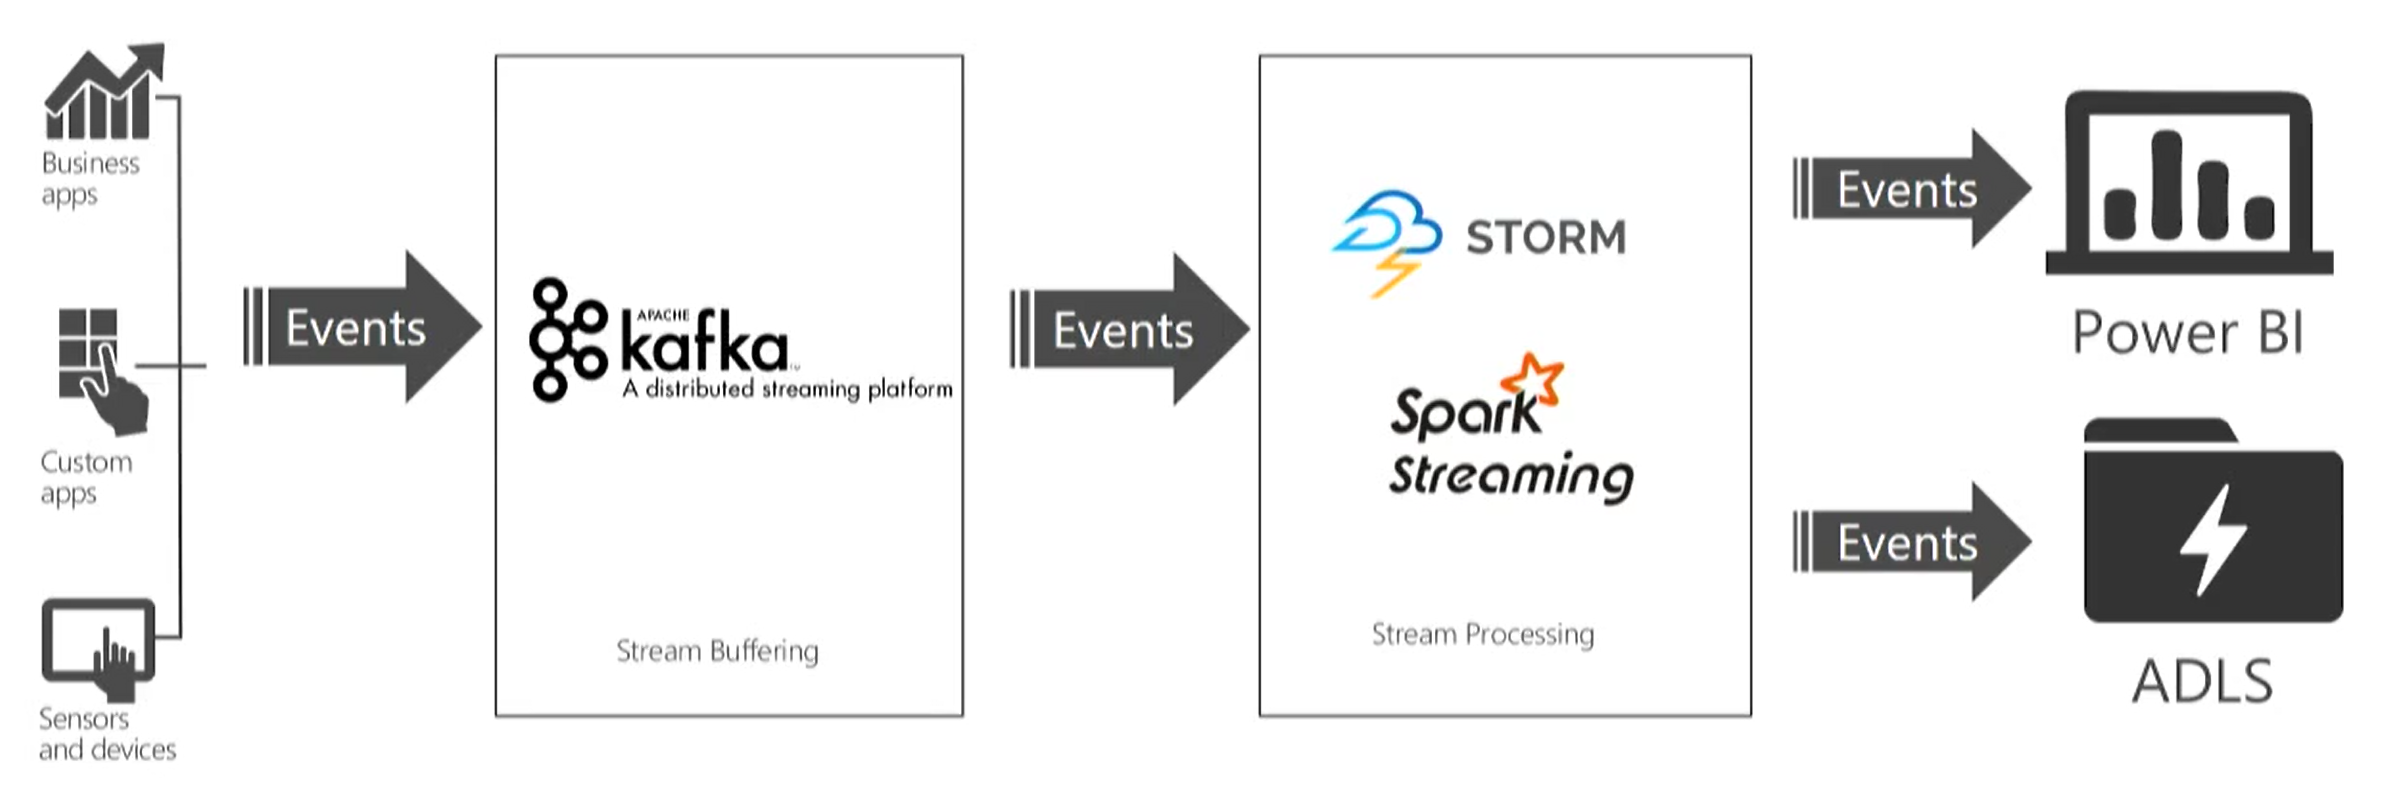
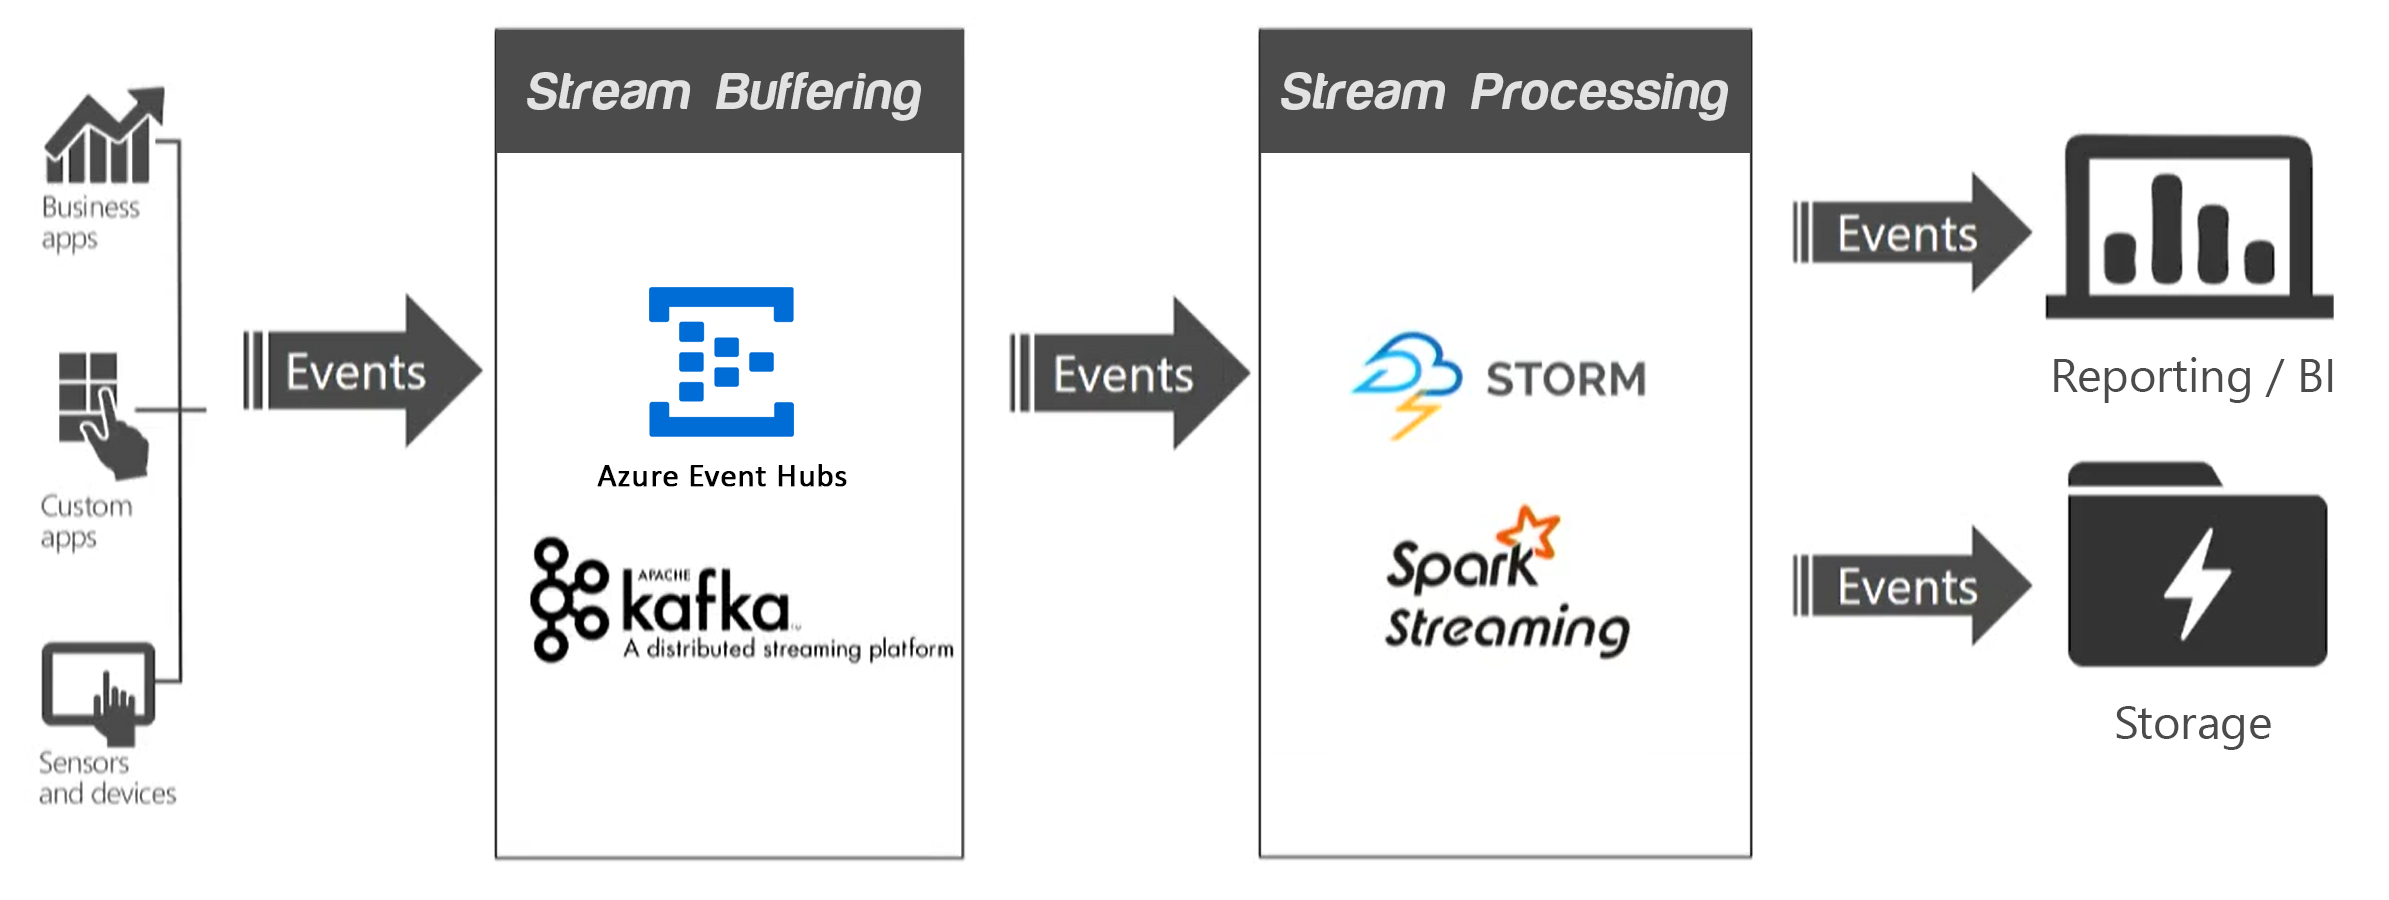
Streamlined Streaming at Scale

diff --git a/hdinsight-streaming-at-scale-overview.md b/hdinsight-streaming-at-scale-overview.md
@@ -10,78 +10,44 @@ keywords: apache storm,storm cluster,kafka,streaming
 ---
 # Streaming at Scale
 
-Many of today's Big Data solutions must act on data in motion at any given point in time. In other words, realtime streaming data. In most cases, this data is most valuable at its time of arrival, such as stock market data, anomaly data used for fraud detection, social networking information that detects trending topics, etc. These applications require transparently scaling their computation models to large clusters, ensuring that valuable information isn't lost when huge spikes of streaming data come rushing in. Being able to quickly scale your solution by adding nodes on demand can be the difference between missing out on incoming information and making a key decision.
+Many of today's Big Data solutions must act on data in motion at any given point in time. In other words, realtime streaming data. In most cases, this data is most valuable at its time of arrival. Being able to quickly scale your solution by adding nodes on demand can be the difference between missing out on incoming information and making a key decision.
 
-To ease the process of scaling streaming platforms, such as Kafka, Apache Storm, or Spark Streaming, HDInsight offers an elegant scale model without the need to throttle your resources. Unlike running one of these streaming platforms on-premises, HDInsight does not require you to have intimate knowledge of scaling a cluster without disrupting any currently running pipelines. All of the necessary steps are handled for you when scaling is performed through the HDInsight utilities.
+To ease the process of scaling streaming platforms, HDInsight offers an elegant scale model without the need to throttle your resources. All of the necessary steps are handled for you when scaling is performed through the HDInsight utilities.
 
 ## What does a streaming architecture look like?
 
-From a very high level, you have one or more data sources generating events (sometimes in the millions per second) that need to be ingested very quickly to avoid dropping any useful information. This is handled by the Stream Buffering, or event queuing, layer by a service such as [Kafka]() or [Event Hubs](). Once you collect your events, you can then analyze the data using any real-time analytics system within the Stream Processing layer, such as [Storm](), [Spark Streaming](), [Azure Stream Analytics](), or similar. This processed data can be stored in long-term storage systems, like [Azure Data Lake Store](), or displayed in real-time on a [Power BI]() dashboard or custom web page. 
+From a very high level, you have one or more data sources generating events (sometimes in the millions per second) that need to be ingested very quickly to avoid dropping any useful information. This is handled by the Stream Buffering, or event queuing, layer by a service such as [Kafka](hdinsight-apache-kafka-introduction.md) or [Event Hubs](https://azure.microsoft.com/services/event-hubs/). Once you collect your events, you can then analyze the data using any real-time analytics system within the Stream Processing layer, such as [Storm](hdinsight-storm-overview.md), [Spark Streaming](hdinsight-spark-streaming-overview.md), or similar. This processed data can be stored in long-term storage systems, like [Azure Data Lake Store](), or displayed in real-time on a business intelligence dashboard, such as [Power BI](https://powerbi.microsoft.com), Tableau, or a custom web page.
+
 ![HDInsight Streaming Patterns](./media/hdinsight-streaming-at-scale-overview/HDInsight-streaming-patterns.png)
 
-When using Kafka as your ingest service, your options for stream processing are Spark and Storm.
 
-Use the following button to deploy a new Azure virtual network, Kafka, and **Spark** clusters to your Azure subscription:
+## Apache Kafka
 
-<a href="https://portal.azure.com/#create/Microsoft.Template/uri/https%3A%2F%2Fhditutorialdata.blob.core.windows.net%2Farmtemplates%2Fcreate-linux-based-kafka-spark-cluster-in-vnet-v2.json" target="_blank"><img src="./media/hdinsight-streaming-at-scale-overview/deploy-to-azure.png" alt="Deploy to Azure"></a>
+Apache Kafka provides high throughput, low-latency message queueing service, originally developed at LinkedIn, and is now part of the Apache suite of Open Source Software (OSS). It uses a publish and subscribe messaging model and stores streams of partitioned data safely in a distributed, replicated cluster. When needed, it scales linearly as throughput increases.
 
-Alternately, deploy a new Azure virtual network with Kafka and **Storm** clusters:
-
-<a href="https://portal.azure.com/#create/Microsoft.Template/uri/https%3A%2F%2Fhditutorialdata.blob.core.windows.net%2Farmtemplates%2Fcreate-linux-based-kafka-storm-cluster-in-vnet.json" target="_blank"><img src="./media/hdinsight-streaming-at-scale-overview/deploy-to-azure.png" alt="Deploy to Azure"></a>
-
-There are other options when designing your streaming architecture by incorporating other Azure services that are not necessarily part of the HDInsight platform. The following diagram illustrates using [Event Hubs]() for ingest, while opening up additional processors, such as [Stream Analytics](), [EventProcessor Host](), [Service Fabric](), and [Azure Functions](). The rest of the article will focus on scaling with Kafka and Storm or Spark Streaming.
-![HDInsight Streaming Patterns (option 2)](./media/hdinsight-streaming-at-scale-overview/HDInsight-streaming-patterns2.png)
-
-
-
-## What is Kafka?
-
-Kafka provides high throughput, low-latency message queueing service, originally developed at LinkedIn, and is now part of the Apache suite of Open Source Software (OSS). It uses a publish and subscribe messaging model and stores streams of partitioned data safely in a distributed, replicated cluster. When needed, it scales linearly as throughput increases.
-
-![Kafka cluster](./media/hdinsight-streaming-at-scale-overview/kafka-cluster.png)
-
-The diagram above shows a typical Kafka configuration that uses consumer groups, partitioning, and replication to offer parallel reading of events, as well as fault tolerance. Apache ZooKeeper is built for concurrent, resilient, and low-latency transactions, managing state in the Kafka cluster. Kafka stores records in *topics*. Records are produced by *producers*, and consumed by *consumers*. Producers retrieve records from Kafka *brokers*. Each worker node in your HDInsight cluster is a Kafka broker. A partition is created per consumer, allowing parallel processing of the streaming data. Replication is employed to spread the partitions across nodes, protecting against node (broker) outages. A partition denoted with an *(L)* is the leader for the given partition. Producer traffic is routed to the leader of each node, per state managed by ZooKeeper. Rebalancing Kafka partition replicas helps us achieve high availability (Fault Domain/Update Domain awareness). The [partition replica rebalancing tool](https://github.com/hdinsight/hdinsight-kafka-tools) (`rebalance_rackaware.py`) distributes replicas of partitions of a topic across brokers in a manner such that each replica is in a separate fault domain and update domain. The tool also distibutes the leaders such that each broker has approximately the same number of leaders for partitions.
-
-There are several advantages to deploying Kafka on HDInsight. The [partition replica rebalancing tool](https://github.com/hdinsight/hdinsight-kafka-tools) can be used to automatically rebalance the replicas after scaling or applying updates. HDInsight is the only provider in the industry to host a managed Kafka environment, while providing a 99.9% uptime SLA. HDInsight also uses a two-dimensional matrix for implementing rack awareness by way of an [update domain, and fault domain](https://docs.microsoft.com/azure/architecture/resiliency/high-availability-azure-applications), as opposed to using a single dimensional unit.
-
+Read [Introducing Apache Kafka on HDInsight (preview)](hdinsight-apache-kafka-introduction.md) for more information.
 
 
 ## Apache Storm
 
-Apache Storm is one of the stream processing engines we displayed in the first and second diagram at the top of this article. In summary, it is a distributed, fault-tolerant, open-source computation system that is optimized for processing streams of data in real time with Hadoop. The core unit of data for an event is in the form of a Tuple, which is an immutable set of key/value pairs. An unbounded sequence of these Tuples form a Stream, which is provided by a Spout. The Spout wraps a streaming data source (such as Kafka), and emits Tuples. A storm Topology is a sequence of transformations on these streams. A bolt implements one transformation.
+Apache Storm is one of the stream processing engines we displayed in the first and second diagram at the top of this article. In summary, it is a distributed, fault-tolerant, open-source computation system that is optimized for processing streams of data in real time with Hadoop. The core unit of data for an event is in the form of a Tuple, which is an immutable set of key/value pairs. An unbounded sequence of these Tuples form a Stream, which is provided by a Spout. The Spout wraps a streaming data source (such as Kafka), and emits Tuples. A storm Topology is a sequence of transformations on these streams.
 
-![Storm introduction](./media/hdinsight-streaming-at-scale-overview/storm-introduction.png)
+Read [What is Apache Storm on Azure HDInsight?](hdinsight-storm-overview.md) for more information.
 
-All processing in topologies is done in bolts. Bolts can do anything from filtering, functions, aggregations, joins, talking to databases, and more. Bolts can do simple stream transformations. Doing complex stream transformations often requires multiple steps and thus, multiple bolts. As you can see in the diagram below, a bolt receives a stream of events from other bolts or spouts, and transforms it to emit an output stream. They are able to join multiple input streams, or split a single stream into multiple output streams. During execution, bolts can store or read state from a database or any state stored in the ZooKeeper node.
+Deploy a new Azure virtual network with Kafka and Storm clusters:
 
-![Storm bolts](./media/hdinsight-streaming-at-scale-overview/storm-bolts.png)
-
-Storm offers several different levels of guaranteed message processing, including best effort, at least once, and exactly once through Trident. It guarantees every tuple will be fully processed. One of Storm's core mechanisms is the ability to track the lineage of a tuple as it makes its way through the topology in an extremely efficient way. Storm's basic abstractions provide an at-least-once processing guarantee, the same guarantee you get when using a queueing system. Messages are only replayed when there are failures.
-Using Trident, which is an even higher level abstraction over Storm's basic abstractions, you can achieve exactly-once processing semantics.
-
+<a href="https://portal.azure.com/#create/Microsoft.Template/uri/https%3A%2F%2Fhditutorialdata.blob.core.windows.net%2Farmtemplates%2Fcreate-linux-based-kafka-storm-cluster-in-vnet.json" target="_blank"><img src="./media/hdinsight-streaming-at-scale-overview/deploy-to-azure.png" alt="Deploy to Azure"></a>
 
 
 ## Spark Streaming
 
 The other stream processing engine we displayed in the diagram was Spark Streaming. Since it is an extension to Spark, Spark Streaming allows you to reuse the same code that you use for batch processing, and even allows you to combine both batch and interactive queries in the same application. Unlike Storm, Spark Streaming provides stateful exactly-once processing semantics out of the box. When used in combination with the [Kafka Direct API](http://spark.apache.org/docs/latest/streaming-kafka-integration.html), which ensures that all Kafka data is received by Spark Streaming exactly once, it is possible to achieve end-to-end exactly-once gurantees. One of Spark Streaming's strengths is its fault-tolerant capabilities, recovering faulted nodes rapidly when multiple nodes are being used within the cluster.
 
-![Spark Streaming](./media/hdinsight-streaming-at-scale-overview/spark-streaming.png)
+Read [What is Spark Streaming?](hdinsight-spark-streaming-overview.md) for more information.
 
-Here is an overview of how Spark Streaming “divides and conquers” big data into data streams. As opposed to the way Storm works with processing data within topologies consisting of spouts and bolts, Spark Streaming receives live input data streams and divides the data into batches. These are then processed by the Spark engine to generate the final stream of results in batches. Spark is gaining popularity due to its ability to achieve Big Data tasks from one platform, such as data cleaning, ETL, streaming, machine learning, and interactive queries, by leveraging a common execution model.
+Use the following button to deploy a new Azure virtual network, Kafka, and Spark clusters to your Azure subscription:
 
-Put another way, Apache Spark is a unified, open source, parallel data processing framework for Big Data analytics.
-
-![Apache Spark: a unified framework](./media/hdinsight-streaming-at-scale-overview/spark-unified.png)
-
-
-Apache Spark persists data in-memory and disk, if needed, to achieve up to 100x faster queries while processing large datasets in Hadoop. This makes Spark for Azure HDInsight ideal to speed up intensive big data applications.
-
-Spark comprises of four components for the purposes of Big Data analytics:
-* Spark SQL – interactive queries 
-* Spark Streaming – stream processing 
-* SparkMLlib – machine learning 
-* GraphX – graph computation
-
+<a href="https://portal.azure.com/#create/Microsoft.Template/uri/https%3A%2F%2Fhditutorialdata.blob.core.windows.net%2Farmtemplates%2Fcreate-linux-based-kafka-spark-cluster-in-vnet-v2.json" target="_blank"><img src="./media/hdinsight-streaming-at-scale-overview/deploy-to-azure.png" alt="Deploy to Azure"></a>
 
 
 ## Scale
